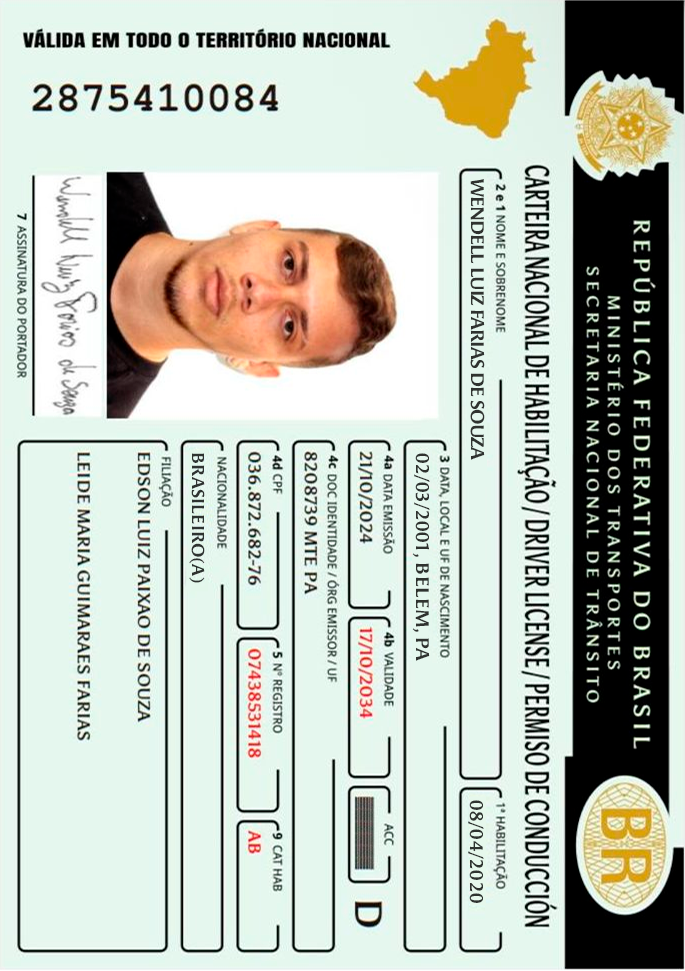
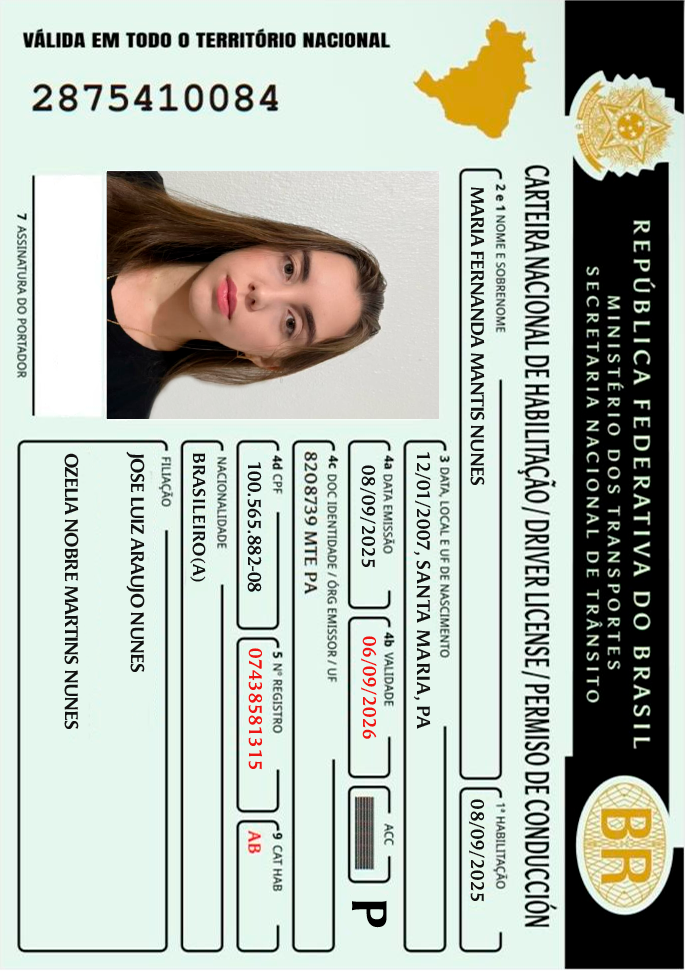
1

diff --git a/cnh.html b/cnh.html
@@ -141,7 +141,9 @@ body {
   font-weight: 600;
   letter-spacing: 0.2px;
 }
+
 </style>
+<link rel="stylesheet" href="https://cdnjs.cloudflare.com/ajax/libs/font-awesome/6.5.1/css/all.min.css">
 </head>
 
 <body>
@@ -180,7 +182,8 @@ body {
 
     <!-- CARD -->
     <div class="card">
-      🪪
+ <div class="icon" style="color:#0a2a5e; font-size: 15px;"><i class="fa-solid fa-address-card"></i>
+</div>
       <span>Histórico de emissões da CNH</span>
     </div>
 
